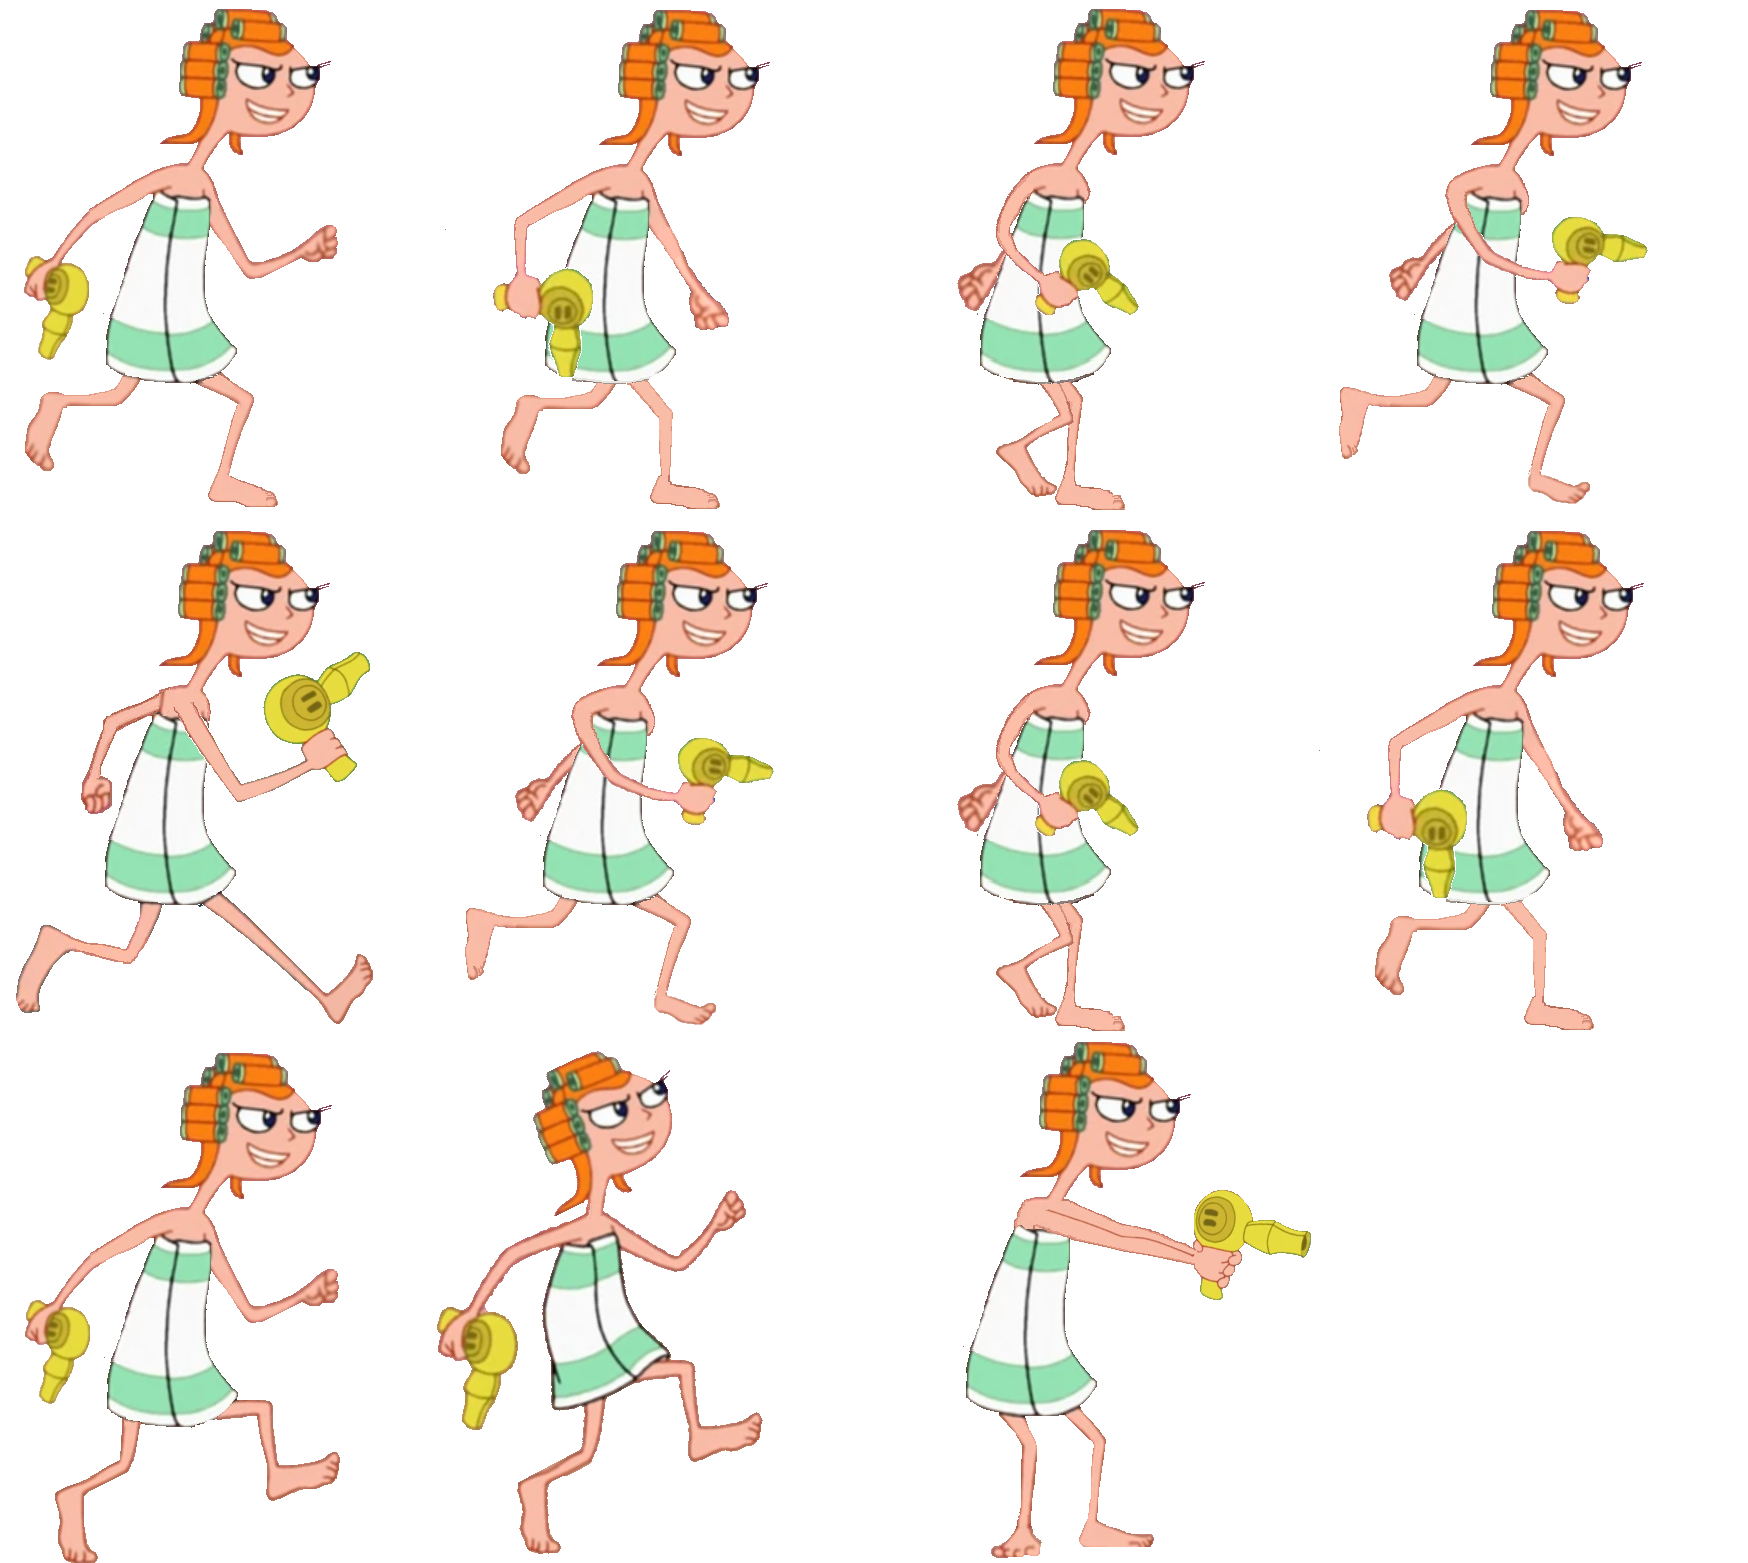
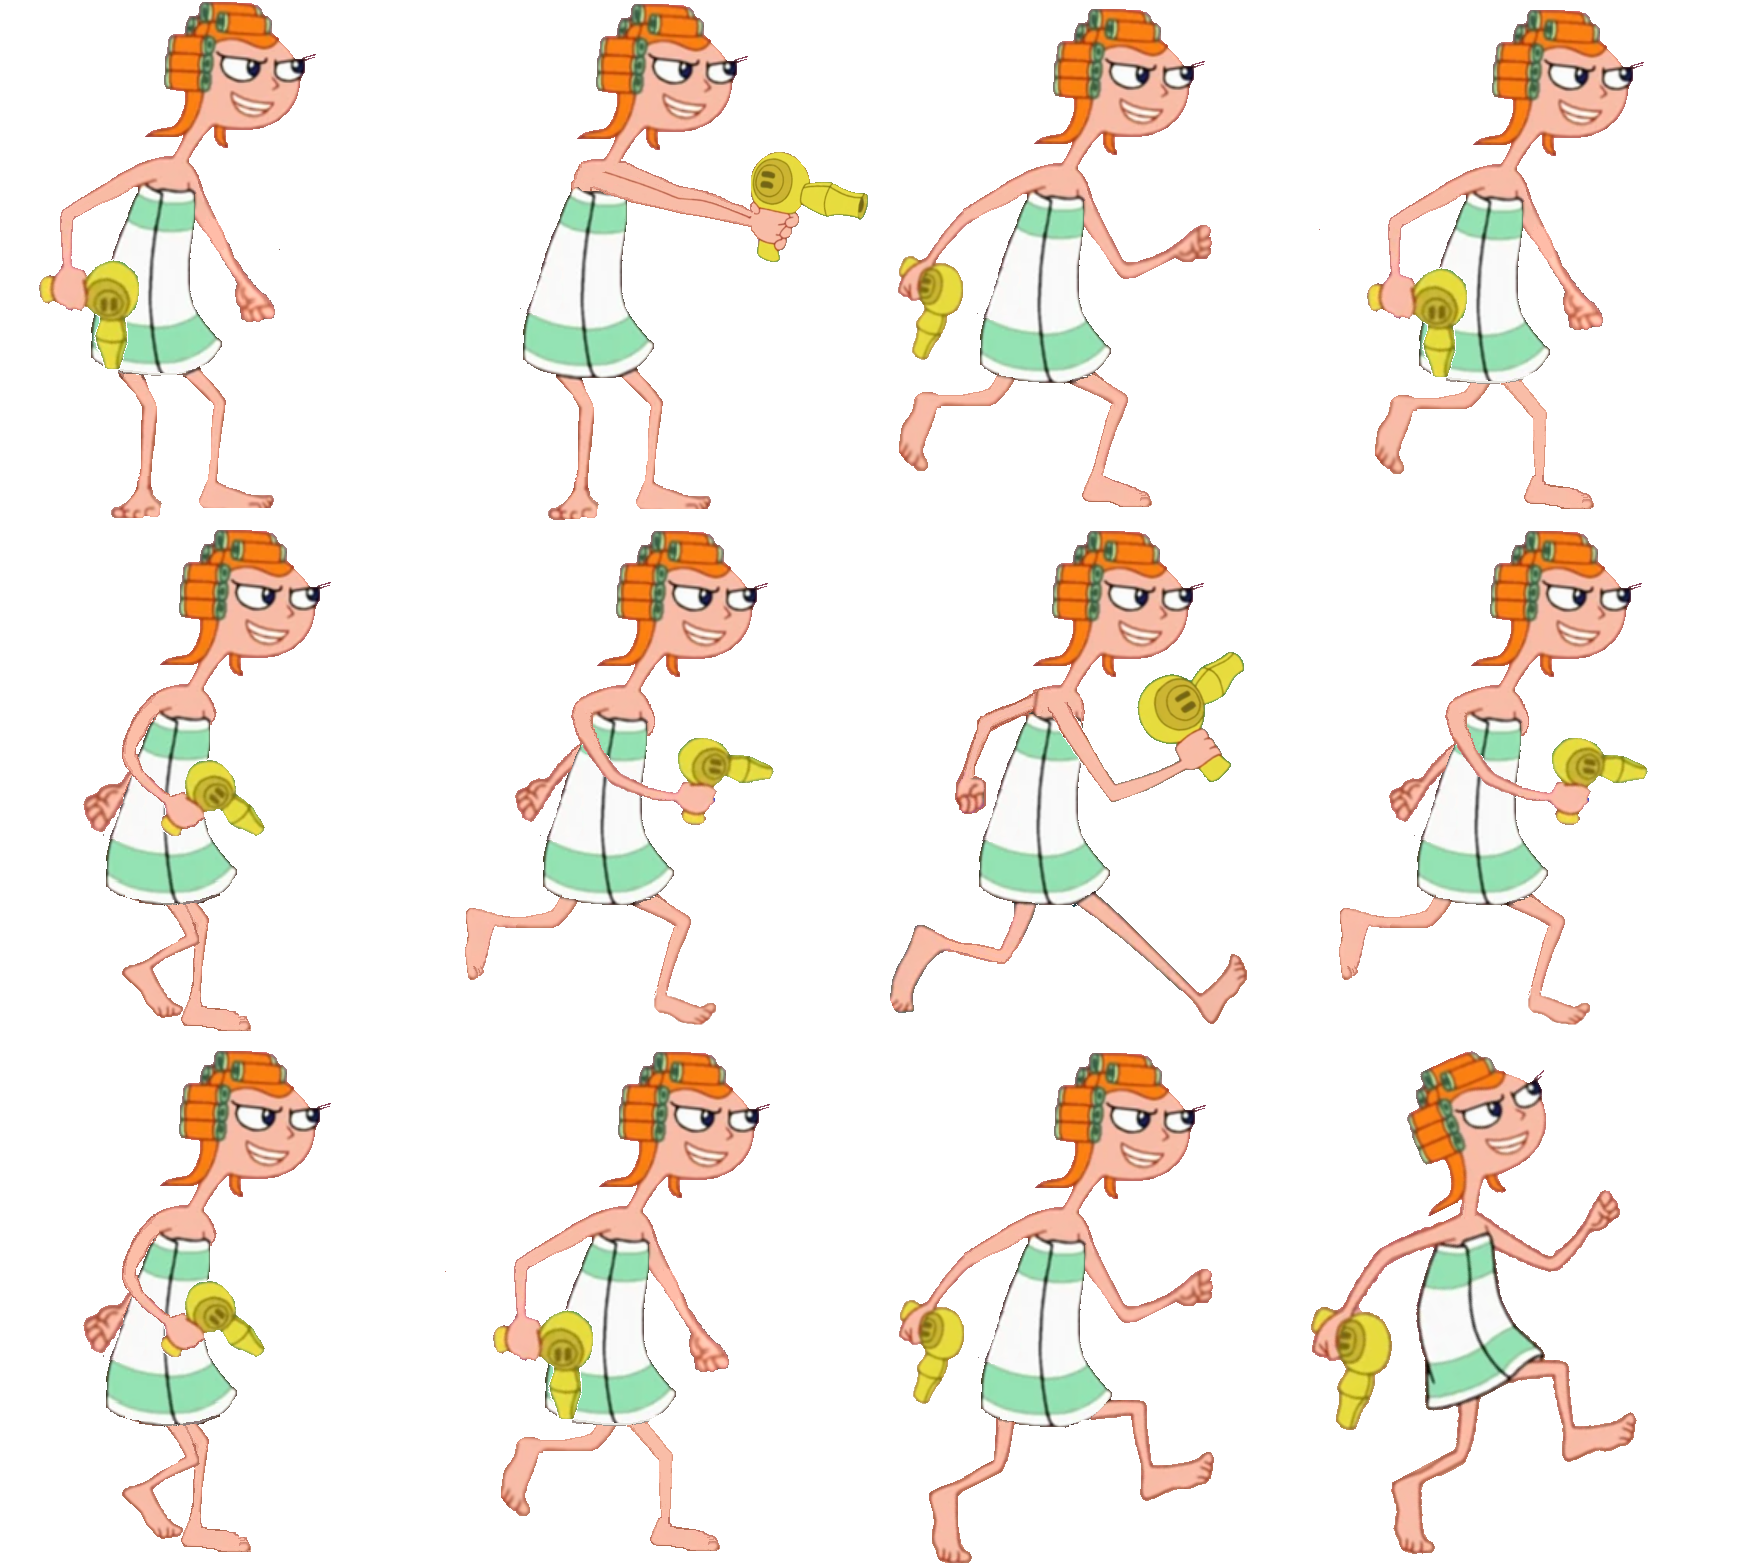
add image to candace spitesheet and update the shooting and moving interaction

diff --git a/src/scenes/Play.js b/src/scenes/Play.js
@@ -79,35 +79,55 @@ class Play extends Phaser.Scene {
             this.chrBodySizeX = this.chr.width * 0.6
             this.chrBodySizeY = this.chr.height
             this.chr.body.setSize(this.chrBodySizeX, this.chrBodySizeY).setCollideWorldBounds(true)
-            
+
             // play clock count down
             this.timeLeft = 60
             this.timeText = this.add.text(game.config.width / 2, 50, this.timeLeft, textConfig).setOrigin(0.5).setDepth(3).setScrollFactor(0)
             this.clock = this.time.addEvent({
                 delay: 1000,
-                callback: () => { if (this.start) {this.timeLeft-- }},
+                callback: () => { if (this.start) { this.timeLeft-- } },
                 callbackScope: this,
                 repeat: -1
             })
-            
+
         } else if (game.gameMode == 'Mode2') {
             // background
             this.map = this.add.image(0, 0, 'map2').setOrigin(0)
-            
+
             // platforms
             this.plats = this.add.group()
-            
-            
+
+
             // character
-            this.chr = this.physics.add.sprite(150, this.map.height - 200, game.selectedCharacter).setScale(0.3).setDepth(5).setFrame(10)
+            this.chr = this.physics.add.sprite(150, this.map.height - 200, game.selectedCharacter).setScale(0.4).setDepth(5).setFrame(0)
             this.chrBodySizeX = this.chr.width * 0.4
             this.chrBodySizeY = this.chr.height * 0.95
             this.chr.body.setSize(this.chrBodySizeX, this.chrBodySizeY).setCollideWorldBounds(true)
-            this.chr.body.setOffset((this.chr.width *0.5)/ 2, this.chr.height - this.chr.body.height - 10)
-            
+            this.chr.body.setOffset((this.chr.width * 0.5) / 2, this.chr.height - this.chr.body.height - 10)
+
+            // animation
+            this.anims.create({
+                key: 'walk',
+                frames: this.anims.generateFrameNumbers('Candace', { start: 2, end: 9, first: 2 }),
+                frameRate: 15,
+                repeat: -1
+            })
+            this.anims.create({
+                key: 'idle',
+                frames: this.anims.generateFrameNumbers('Candace', { start: 0, end: 0, first: 0 }),
+                frameRate: 15,
+                repeat: -1
+            })
+            this.anims.create({
+                key: 'fire',
+                frames: this.anims.generateFrameNumbers('Candace', { start: 1, end: 1, first: 1 }),
+                frameRate: 15,
+                repeat: -1
+            })
+
             // laser group
             this.lasers = this.createLasers()
-            
+
 
             this.timeText = this.add.text(game.config.width / 2, 50, this.score, textConfig).setOrigin(0.5).setDepth(3).setScrollFactor(0)
 
@@ -280,33 +300,35 @@ class Play extends Phaser.Scene {
             }
         }
 
-        if (!this.isMoving) {
-            this.chr.body.velocity.x = 0
-        }
-
         // left/right movement
-        if (keyLEFT.isDown && keyRIGHT.isDown && !this.isMoving && !this.isDucking) {
-            this.isMoving = true
-        } else if (keyLEFT.isDown && !this.isMoving && !this.isDucking) {
+        if (keyLEFT.isDown && keyRIGHT.isDown && !this.isDucking && !this.isFiring) {
+            this.isMoving = false
+            this.chr.body.velocity.x = 0
+            this.chr.anims.play('idle', true)
+        } else if (keyLEFT.isDown && !this.isMoving && !this.isDucking && !this.isFiring) {
             this.chr.body.velocity.x -= this.MOVE_VELOCITY
             this.isMoving = true
             this.direction = -1
-        } else if (keyRIGHT.isDown && !this.isMoving && !this.isDucking) {
+            this.chr.anims.play('walk', true)
+        } else if (keyRIGHT.isDown && !this.isMoving && !this.isDucking && !this.isFiring) {
             this.chr.body.velocity.x += this.MOVE_VELOCITY
             this.isMoving = true
             this.direction = 1
+            this.chr.anims.play('walk', true)
         }
-        if (!keyLEFT.isDown || !keyRIGHT.isDown) {
+        if (!keyLEFT.isDown && !keyRIGHT.isDown && !this.isFiring) {
             this.isMoving = false
+            this.chr.body.velocity.x = 0
+            this.chr.anims.play('idle', true)
         }
 
         // flip character image
         if (this.direction < 0) {
             this.chr.setFlip(true, false)
-            this.chr.body.setOffset((this.chr.width *0.7)/ 2, this.chr.height * 0.05 - 10)
+            this.chr.body.setOffset((this.chr.width * 0.7) / 2, this.chr.height * 0.05 - 10)
         } else {
             this.chr.resetFlip()
-            this.chr.body.setOffset((this.chr.width *0.5)/ 2, this.chr.height * 0.05 - 10)
+            this.chr.body.setOffset((this.chr.width * 0.5) / 2, this.chr.height * 0.05 - 10)
         }
 
         // enemy movement
@@ -325,8 +347,13 @@ class Play extends Phaser.Scene {
             }
         } else if (game.gameMode == 'Mode2') {
             // shooting
-            if (Phaser.Input.Keyboard.JustDown(keyZ)) {
+            if (Phaser.Input.Keyboard.JustDown(keyZ) && !this.isFiring && this.chr.body.touching.down) {
+                this.isFiring = true
+                this.isMoving = false
+                this.chr.body.velocity.x = 0
                 this.fire(this.chr.x, this.chr.y, this.direction)
+                this.chr.anims.play('fire', true)
+                this.time.delayedCall(100, () => { this.isFiring = false })
             }
 
             // reset laser

diff --git a/src/scenes/Select.js b/src/scenes/Select.js
@@ -77,11 +77,9 @@ class Select extends Phaser.Scene {
             this.Index = 0
             this.firstSelect = true
             this.chrImage = this.add.sprite(450, 500, this.characters[this.Index].key).setScale(0.75)
-            this.chrImage.setFrame(10)
         } else {
             this.Index = Phaser.Math.Wrap(this.Index + keyPressed, 0, this.characters.length)
             this.chrImage.setTexture(this.characters[this.Index].key)
-            this.chrImage.setFrame(10)
         }
 
         // update text style
